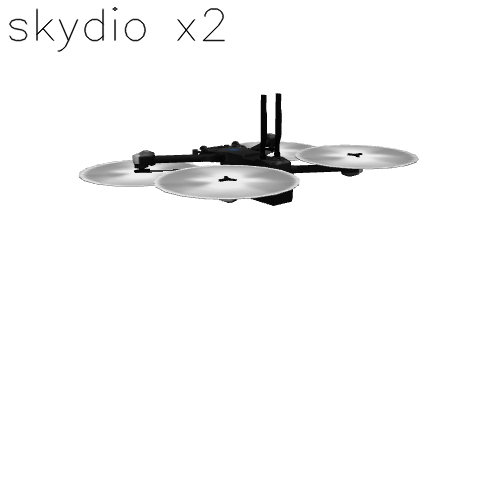
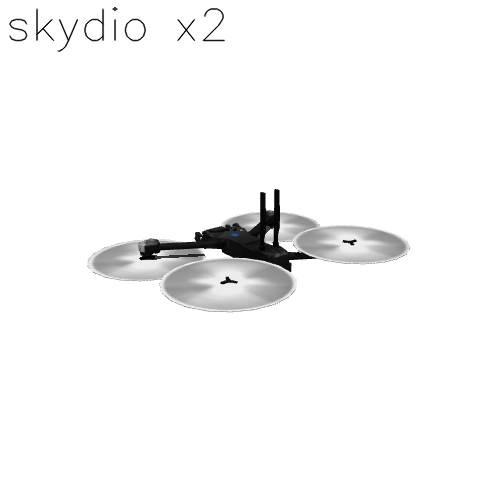
Sync.

Changed region(s): [[0.15, 0.18, 0.84, 0.63]]

diff --git a/generate_gallery.py b/generate_gallery.py
@@ -152,6 +152,8 @@ for xml in tqdm(MODEL_XMLS):
 
     try:
       physics.reset(keyframe_id=0)
+      if "skydio" in xml.as_posix():
+        physics.data.qpos[2] = 0.1
     except:
       physics.reset()
     physics.forward()

diff --git a/README.md b/README.md
@@ -238,7 +238,7 @@ Menagerie, see [CONTRIBUTING](CONTRIBUTING.md).
 ## Gallery
 
 |<img src='assets/franka_emika_panda-panda.png' width=100>|<img src='assets/kuka_iiwa_14-iiwa14.png' width=100>|<img src='assets/rethink_robotics_sawyer-sawyer.png' width=100>|<img src='assets/trossen_vx300s-vx300s.png' width=100>|<img src='assets/ufactory_lite6-lite6.png' width=100>|
-| :---: | :---: | :---: | :---: | :---: |
+|--|--|--|--|--|
 |<img src='assets/ufactory_xarm7-xarm7.png' width=100>|<img src='assets/unitree_z1-z1.png' width=100>|<img src='assets/universal_robots_ur10e-ur10e.png' width=100>|<img src='assets/universal_robots_ur5e-ur5e.png' width=100>|<img src='assets/aloha-aloha.png' width=100>|
 |<img src='assets/franka_emika_panda-hand.png' width=100>|<img src='assets/robotiq_2f85-2f85.png' width=100>|<img src='assets/shadow_hand-left_hand.png' width=100>|<img src='assets/shadow_hand-right_hand.png' width=100>|<img src='assets/ufactory_xarm7-hand.png' width=100>|
 |<img src='assets/wonik_allegro-left_hand.png' width=100>|<img src='assets/wonik_allegro-right_hand.png' width=100>|<img src='assets/google_robot-robot.png' width=100>|<img src='assets/hello_robot_stretch-stretch.png' width=100>|<img src='assets/anybotics_anymal_b-anymal_b.png' width=100>|
